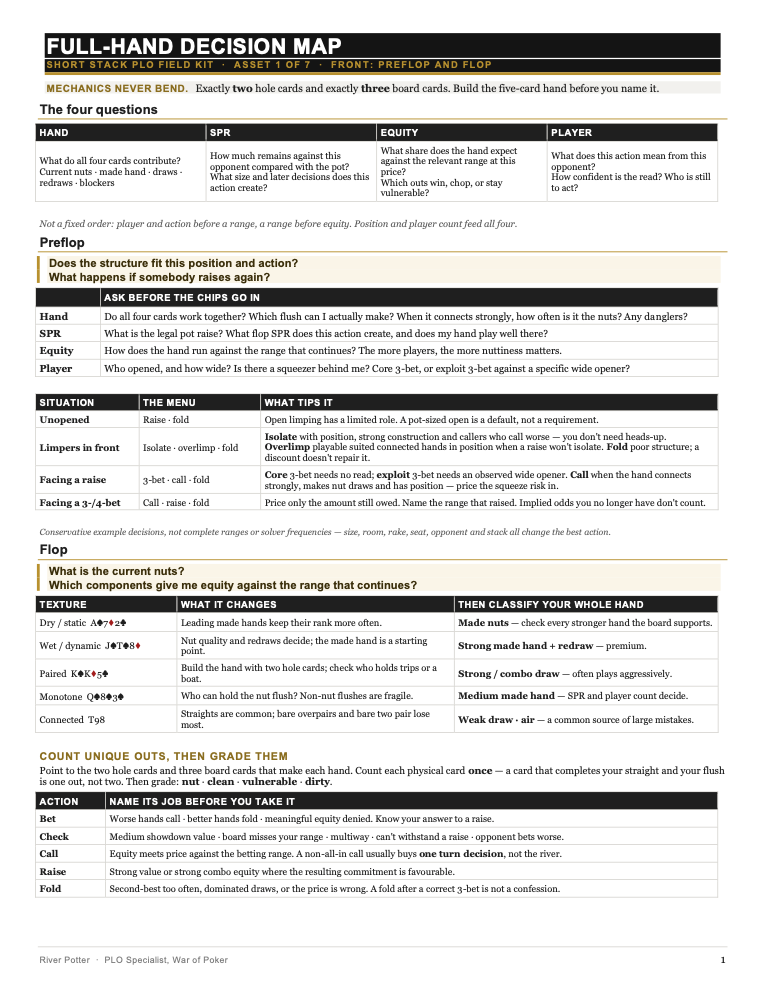
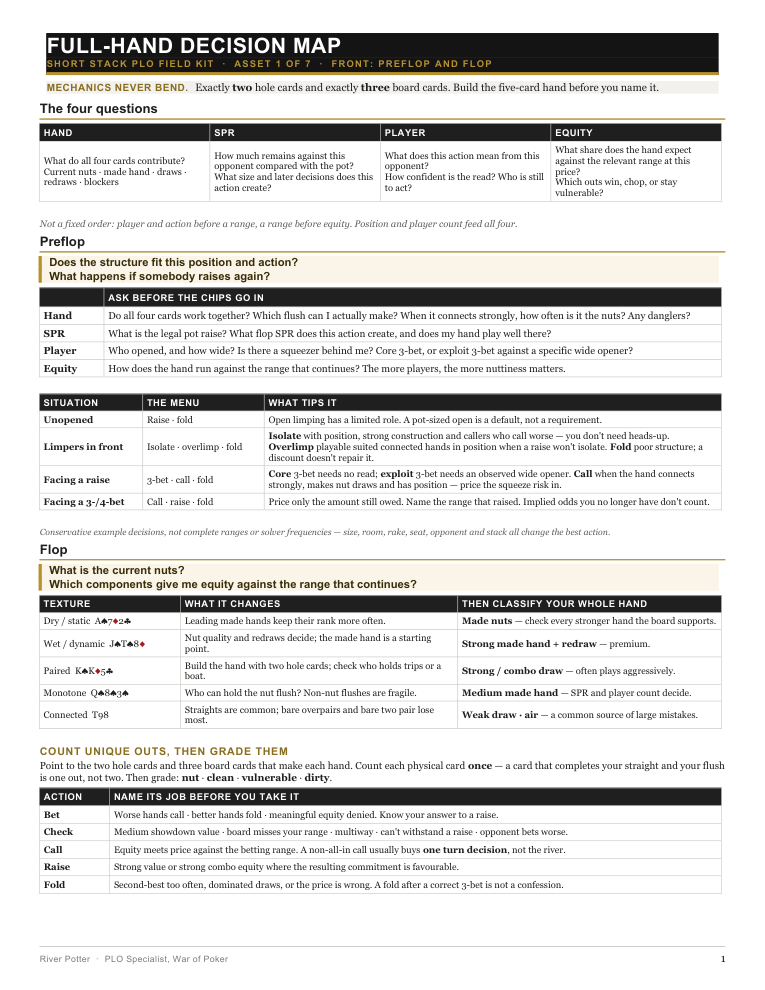
Finalize Short Stack PLO decision framework and launch fixes

diff --git a/src/components/marketing/expensive-decision.tsx b/src/components/marketing/expensive-decision.tsx
@@ -1,39 +1,49 @@
 import { TrackedCta } from "@/components/analytics/tracked-cta";
 import { CardRow } from "@/components/poker/playing-card";
-import { hands, totalHands } from "@/lib/quiz/hands";
+import { cards } from "@/lib/poker/cards";
+import { totalHands } from "@/lib/quiz/hands";
 import { CHALLENGE_PATH } from "@/lib/short-stack-plo";
 import { Section, SectionHeading } from "./section";
 
 /**
  * One real decision, worked — the page's proof mechanism.
  *
- * Uses the challenge's opening hand, which is approved published material
- * rather than a constructed example. It is a $242 decision: the cost of getting
- * this one spot wrong is several times the price of the system, which is the
- * whole argument made concrete.
+ * A self-contained original example (not a Challenge hand): this component
+ * owns its own cards and facts rather than reading `hands[0]`, so a future
+ * change to the Challenge's hand order or content can't silently break the
+ * story told here. It deliberately does not reuse a book, Field Kit, or
+ * Challenge hand's exact cards -- see the sourcing rule documented in
+ * `src/lib/quiz/hands.ts` -- only the same generic $2/$5, $58 3-bet, $123
+ * pot baseline the book uses throughout as its running example depth.
+ *
+ * It is a $242 decision: the cost of getting this one spot wrong is several
+ * times the price of the system, which is the whole argument made concrete.
  *
  * Kept deliberately short. The long version is the book; this only has to show
  * that the reasoning is real.
  */
 
-const [acesHand] = hands;
+const exampleHand = {
+  hand: cards("As Ah Qd 4c"),
+  board: cards("Ts 9s 7h"),
+};
 
 const framework = [
   {
     term: "Hand",
-    body: "Bare aces. No heart, no useful straight coverage. The nuts right now is T7.",
+    body: "Bare aces. One spade, not enough for the flush draw, and no straight coverage. The nuts right now is J8.",
   },
   {
     term: "SPR",
     body: "1.97. That describes the leverage available — not your cards, and not an instruction to commit.",
   },
   {
-    term: "Equity",
-    body: "A bet folds the hands with little equity and gets called by the straights, sets and wraps that beat you.",
+    term: "Player",
+    body: "This opponent has shown down rundowns and suited connectors after calling 3-bets — exactly what T-9-7 hits.",
   },
   {
-    term: "Player",
-    body: "This opponent has shown down rundowns and suited connectors after calling 3-bets — exactly what 9-8-6 hits.",
+    term: "Equity",
+    body: "Against that range, a bet folds the hands with little equity and gets called by the straights, sets and wraps that beat you.",
   },
 ];
 
@@ -51,8 +61,8 @@ export function ExpensiveDecision({ ctaLocation }: { ctaLocation: string }) {
       <div className="mt-10 grid gap-8 lg:grid-cols-12 lg:gap-12">
         <div className="lg:col-span-5">
           <div className="flex flex-wrap items-end gap-x-8 gap-y-6">
-            <CardRow cards={acesHand.hand} label="Your hand" size="lead" />
-            <CardRow cards={acesHand.board} label="Flop" />
+            <CardRow cards={exampleHand.hand} label="Your hand" size="lead" />
+            <CardRow cards={exampleHand.board} label="Flop" />
           </div>
 
           <dl className="mt-8 flex gap-10">
@@ -82,7 +92,7 @@ export function ExpensiveDecision({ ctaLocation }: { ctaLocation: string }) {
           </p>
           <p className="mt-4 text-lg leading-relaxed text-pretty text-bone">
             Your preflop range advantage is not a flop advantage on this board.
-            The same aces bet comfortably on A♦7♠2♣ — the cards didn&apos;t
+            The same aces bet comfortably on K♣7♦2♠ — the cards didn&apos;t
             change, the board did.
           </p>
 

diff --git a/src/lib/quiz/hands.ts b/src/lib/quiz/hands.ts
@@ -577,17 +577,17 @@ export const hands: ChallengeHand[] = [
     explanation: [
       "Run the four questions in order. Hand: top pair with the king, plus a wrap. With exactly two of your cards and three from the board, any ace, king, jack, nine or eight makes you a straight — seventeen cards. The ace, nine and eight make the best straight. The king and jack make a straight an ace-high one can still beat, so count them, but not as clean.",
       "SPR: about 2.8 on the turn. A pot-sized bet that is called leaves $165 behind in a $270 pot — about 0.6 — so one more bet covers the rest on the river, whichever card comes.",
-      "Equity: this player's calling range is weaker queens, tens, pairs with draws, and draws. Against the study holdings Q♦8♠7♠3♣, T♦9♥6♠5♣ and A♦3♦T♥6♣ you are 85%, 70% and 70%. Against queens-and-tens, Q♣T♦5♠5♦, you are still 42.5%.",
-      "Player: this is the one that decides the size. A loose-passive player calls with worse and seldom raises, so the bet is value, not a bluff. If they do raise, the rare raise from this player is strong and you can reassess. A misreads the player — not folding is a reason to bet good hands, not to stop betting. C plays top pair as if it were alone, ignoring the wrap. D charges a player who calls anything a fraction of what they'll pay.",
+      "Player: this is the one that decides the size. A loose-passive player calls with worse and seldom raises, so the bet is value, not a bluff. Their calling range is weaker queens, tens, pairs with draws, and draws. If they do raise, the rare raise from this player is strong and you can reassess.",
+      "Equity: against that range — the study holdings Q♦8♠7♠3♣, T♦9♥6♠5♣ and A♦3♦T♥6♣ — you are 85%, 70% and 70%. Against queens-and-tens, Q♣T♦5♠5♦, you are still 42.5%. A misreads the player — not folding is a reason to bet good hands, not to stop betting. C plays top pair as if it were alone, ignoring the wrap. D charges a player who calls anything a fraction of what they'll pay.",
     ],
-    principle: "Hand, SPR, equity, player — on every street, in that order.",
+    principle: "Hand, SPR, player, equity — on every street, in that order.",
   },
 ];
 
 export const totalHands = hands.length;
 
 /** The four questions the book reduces every street to. */
-export const fourQuestions = ["Hand", "SPR", "Equity", "Player"] as const;
+export const fourQuestions = ["Hand", "SPR", "Player", "Equity"] as const;
 
 export const survivalCard = {
   name: "The NLH Player's PLO Survival Card",

diff --git a/src/lib/email/templates.ts b/src/lib/email/templates.ts
@@ -241,7 +241,7 @@ export const sequence: {
       blocks: [
         {
           kind: "p",
-          text: "A short hand, worked through the four questions the whole system runs on: Hand · SPR · Equity · Player.",
+          text: "A short hand, worked through the four questions the whole system runs on: Hand · SPR · Player · Equity.",
         },
         {
           kind: "p",
@@ -257,15 +257,15 @@ export const sequence: {
           kind: "p",
           text: "It tells you how much is left to play for. It doesn't tell you whether you are still ahead.",
         },
-        { kind: "h", text: "Equity" },
-        {
-          kind: "p",
-          text: "On the flop your two pair was ahead of almost everything that could call. On this turn it trails every straight, and only the four remaining queens and jacks fill it up to a full house.",
-        },
         { kind: "h", text: "Player" },
         {
           kind: "p",
           text: "Ask what called the flop. Hands like A-K, K-9 and 9-8 had gutshots and wraps on Q-J-4, and the ten is the card they were waiting for. A player who calls flops with draws and now bets big is telling you which part of that range arrived.",
+        },
+        { kind: "h", text: "Equity" },
+        {
+          kind: "p",
+          text: "Against that range, your two pair — ahead of almost everything that called the flop — now trails every straight, and only the four remaining queens and jacks fill it up to a full house.",
         },
         {
           kind: "p",

diff --git a/src/components/marketing/framework-strip.tsx b/src/components/marketing/framework-strip.tsx
@@ -9,8 +9,8 @@
 const steps = [
   { term: "Hand", question: "What do all four cards contribute?" },
   { term: "SPR", question: "What does the pot and remaining stack make possible?" },
-  { term: "Equity", question: "Which outcomes actually win against the relevant range?" },
   { term: "Player", question: "What does this action mean from this opponent?" },
+  { term: "Equity", question: "Which outcomes actually win against the range that implies?" },
 ];
 
 export function FrameworkStrip({ headingId }: { headingId: string }) {
@@ -31,6 +31,9 @@ export function FrameworkStrip({ headingId }: { headingId: string }) {
           </div>
         ))}
       </dl>
+      <p className="mt-6 leading-snug text-pretty text-bone-muted">
+        Those four feed the decision: fold, check, call, bet, or raise.
+      </p>
     </div>
   );
 }

diff --git a/src/components/quiz/challenge-result.tsx b/src/components/quiz/challenge-result.tsx
@@ -229,8 +229,9 @@ export function ChallengeResult({ result, answers, onRestart }: ChallengeResultP
             ))}
           </p>
           <p className="mt-4 max-w-xl leading-relaxed text-pretty text-bone-muted">
-            One lens, used the same way on every street. Update it whenever a new
-            card or a new action changes the situation.
+            One lens, used the same way on every street, feeding one decision:
+            fold, check, call, bet, or raise. Update it whenever a new card or
+            a new action changes the situation.
           </p>
         </div>
       </section>

diff --git a/src/components/marketing/faq.tsx b/src/components/marketing/faq.tsx
@@ -21,7 +21,7 @@ const faqs = [
   {
     question: "Is this solver-based strategy?",
     answer:
-      "No. Short Stack PLO is practical live strategy built around four questions — Hand, SPR, Equity, and Player. It is written for decisions made at a live table, not for studying solver outputs.",
+      "No. Short Stack PLO is practical live strategy built around four questions — Hand, SPR, Player, and Equity. It is written for decisions made at a live table, not for studying solver outputs.",
   },
   {
     question: "Will playing a shallower stack make me a winning player?",

diff --git a/src/app/short-stack-plo/page.tsx b/src/app/short-stack-plo/page.tsx
@@ -30,7 +30,7 @@ import { siteUrl } from "@/lib/site";
 
 const title = "Short Stack PLO: Live Pot-Limit Omaha Strategy | War of Poker";
 const description =
-  "A practical decision system for live Hold'em players moving into PLO. Hand, SPR, Equity, Player — applied on every street. By River Potter, published by War of Poker.";
+  "A practical decision system for live Hold'em players moving into PLO. Hand, SPR, Player, Equity — applied on every street. By River Potter, published by War of Poker.";
 
 export const metadata: Metadata = {
   title,

diff --git a/docs/SHORTS-CONTENT-FORMAT.md b/docs/SHORTS-CONTENT-FORMAT.md
@@ -1,0 +1,109 @@
+# War of Poker — River Potter Shorts: Content Format
+
+> **Status: implementation record, not doctrine.**
+> This document describes the intended shape of future short-form River Potter
+> video content, so the product and marketing stay aligned when that format is
+> built. It records a direction, not a decision already executed — no video
+> system exists yet. It does **not** define brand, WARPLAN, or product
+> doctrine — those live in the five canonical files listed in
+> [`AGENTS.md`](../AGENTS.md), and nothing here overrides them. In particular,
+> this document does not rename, extend, or reinterpret WARPLAN, and the
+> reasoning structure below is Short Stack PLO's own four-question lens, not a
+> substitute for or version of WARPLAN.
+
+---
+
+## What this is for
+
+Short Stack PLO, the Field Kit, and the 10-Hand Challenge already teach and
+test one reasoning sequence: **Hand → SPR → Player → Equity → Decision** (see
+`src/lib/quiz/hands.ts` and the Field Kit's Full-Hand Decision Map). Future
+short-form video ("Shorts") should demonstrate that same sequence rather than
+introduce a different one, so a viewer who later buys the book or takes the
+Challenge recognizes the reasoning instead of meeting it cold.
+
+**The framework is a visual reasoning structure, not a slogan.** It should
+feel like the natural way River Potter looks at a hand — a recurring, subtle
+on-screen progression — not a branded overlay, a countdown gimmick, or a
+catchphrase spoken at the viewer. No acronym, tagline, or product name is
+attached to it here or anywhere else in the product, and Shorts should not
+invent one.
+
+---
+
+## The on-screen structure
+
+A subtle, recurring visual indicator tracks the same four questions used
+everywhere else in the product:
+
+```
+HAND → SPR → PLAYER → EQUITY → DECISION
+```
+
+`DECISION` is the outcome the first four produce, not a fifth question asked
+of the viewer — consistent with how the book, Field Kit, and Challenge already
+treat it (fold, check, call, bet, or raise).
+
+## The six-beat format
+
+1. **Present a novel hand.** Cards, board, stacks, and a live-relevant read on
+   the opponent — enough to make the decision real, not a puzzle.
+2. **Ask the viewer for a decision.** Fold, check, call, bet, or raise — stated
+   plainly, before any reasoning is shown.
+3. **Brief countdown.** A short pause that invites an answer before the reveal.
+4. **Work through the relevant factors.** Not mechanically all four every
+   time — the same selective-labeling discipline the Capstone Quiz and the
+   Challenge already use. Show whichever of Hand, SPR, Player, and Equity
+   actually explains this decision, in that order when more than one appears.
+5. **Reveal and explain the decision.** State the action and tie it back to
+   whichever factors were shown.
+6. **Point toward the 10-Hand Challenge, where it fits.** Not every Short
+   needs a CTA cut awkwardly into six seconds of video, but the natural close
+   is the free Challenge at `/plo-challenge`, which tests the same reasoning
+   at greater length.
+
+## Hand sourcing — the same rule the Challenge already follows
+
+**Every hand used in a Short must be new.** It must not reproduce or closely
+adapt a hand from:
+
+- the published manuscript (including Chapter 12's ten worked hands and every
+  worked example inside Chapters 1–11),
+- the Field Kit (including the 20-Hand Capstone Quiz),
+- the 10-Hand Challenge (`src/lib/quiz/hands.ts`), or
+- any previously published Short.
+
+This is the same separation `src/lib/quiz/hands.ts` already documents and
+`tests/challenge-hands.test.ts` already guards for the Challenge: **the paid
+product teaches concepts; marketing content creates new situations in which
+those concepts can be applied.** A Short should illustrate a concept from the
+book — nuttiness, SPR zones, dirty outs, thin value, whatever the beat calls
+for — using cards, boards, and a read that do not appear anywhere else in the
+product. Whatever mechanism eventually generates or reviews Short hands should
+check new hands against the existing paid and free inventory the same way the
+Challenge's own test suite does, before publication.
+
+## Voice
+
+The established River Potter voice governs Shorts exactly as it governs
+everything else: calm, analytical, practical, concise, live-poker focused,
+anti-hype. A Short should sound like a player thinking clearly under time
+pressure, not a solver printing a citation or a marketer selling a system.
+
+## Poker accuracy
+
+Every Short hand needs the same technical checks any other new hand gets:
+legal card construction, no duplicates, correct pot and pot-limit raise
+arithmetic, correct SPR, and a strategic claim qualified by whatever
+opponent/range assumption it depends on. Nothing here relaxes that; a fifteen
+second video is not a reason to publish an unverified number.
+
+## Still undecided
+
+This document sets the format's shape, not its production plan. Left for
+explicit direction when the video system itself is built: platform(s) and
+cadence, who or what drafts a Short's hand and script, the review gate before
+publication, on-screen visual treatment of the HAND → SPR → PLAYER → EQUITY →
+DECISION indicator (colors, typography, motion — subject to `docs/BRAND.md`
+once it is no longer `TODO`), captioning/accessibility, and performance
+measurement. None of these should be decided by inference from this document.
